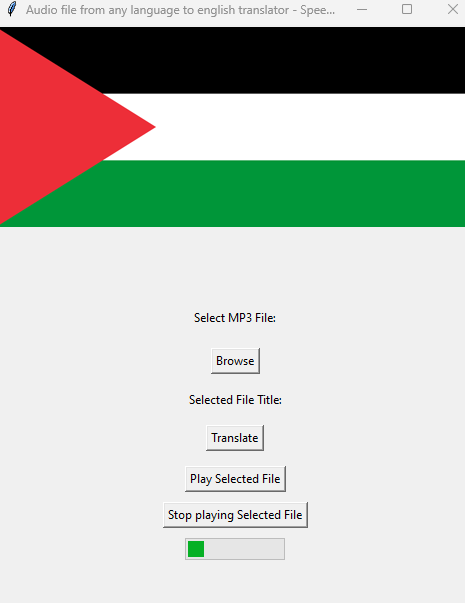
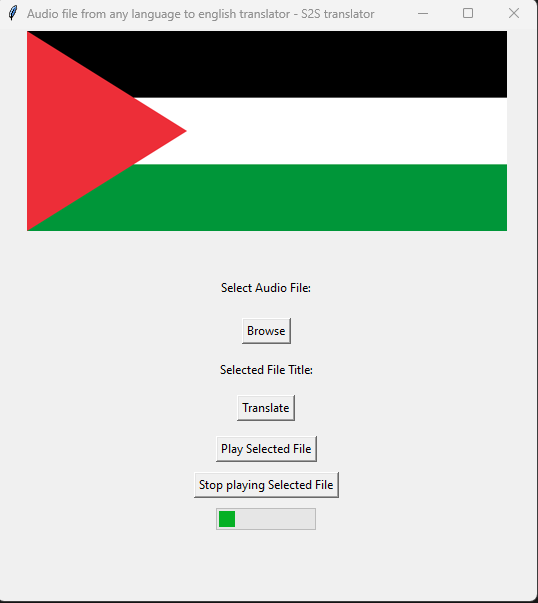
minor GUI updates

Changed region(s): [[0.0, 0.0, 1.0, 1.0], [0.3613, 0.6567, 0.6624, 0.9254], [0.3914, 0.4478, 0.6022, 0.6269]]

diff --git a/Audio_file_any_language_to_english_translator-SpeechToSpeechTranslator.py b/Audio_file_any_language_to_english_translator-SpeechToSpeechTranslator.py
@@ -54,8 +54,8 @@ class CustomTranslator:
         
 class TranslatorGUI:
     def __init__(self, master):
-        master.title("Audio file from any language to english translator - Speech to speech translator")
-        master.geometry("480x640")  # Increased height for progress bar and label
+        master.title("Audio file from any language to english translator - S2S translator")
+        master.geometry("540x580")  # Increased height for progress bar and label
 
         # Load and display banner image
         banner_image = Image.open("Flag_of_Palestine.svg.png")
@@ -69,7 +69,7 @@ class TranslatorGUI:
         center_frame = ttk.Frame(master)
         center_frame.pack(expand=True)
 
-        self.label_input = Label(center_frame, text="Select MP3 File:")
+        self.label_input = Label(center_frame, text="Select Audio File:")
         self.label_input.pack(side="top", pady=10)
 
         self.browse_button = Button(center_frame, text="Browse", command=self.browse)
@@ -96,7 +96,7 @@ class TranslatorGUI:
         self.audio_path = ""
     
     def browse(self):
-        file_path = filedialog.askopenfilename(filetypes=[("MP3 Files", "*.*")])
+        file_path = filedialog.askopenfilename(filetypes=[("Audio Files", "*.*")])
         print(f"Selected file: {file_path}")
         self.audio_path = file_path
         

diff --git a/readme.md b/readme.md
@@ -4,7 +4,7 @@ Audio_file_any_language_to_english_translator-SpeechToSpeechTranslator is a simp
 
 ## Features
 
-- Translate the content of an Audio file from one language to english.
+- Translate the content of an Audio file from any language to english.
 - Uses OpenAI's Whisper models for audio processing and translation.
 - User-friendly GUI for easy interaction.
 
